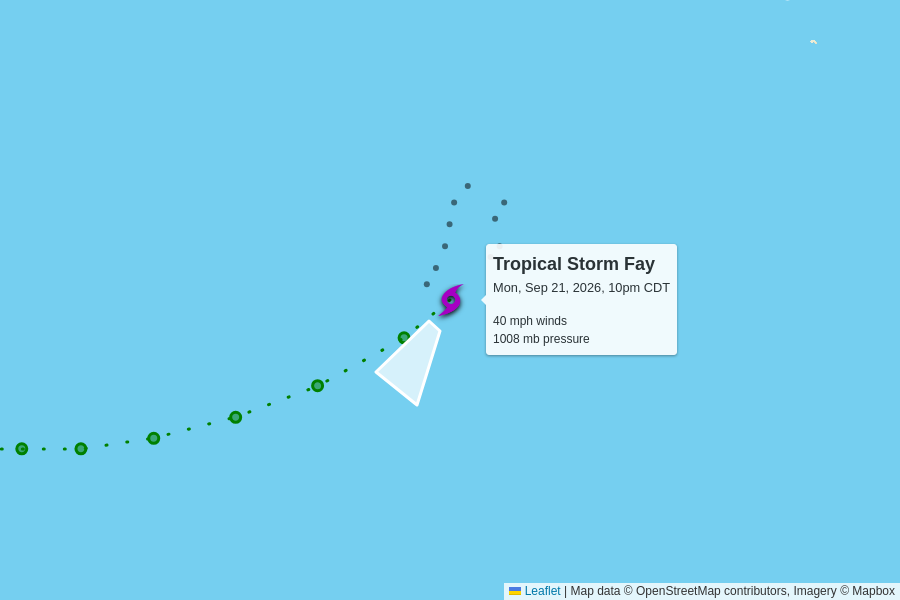
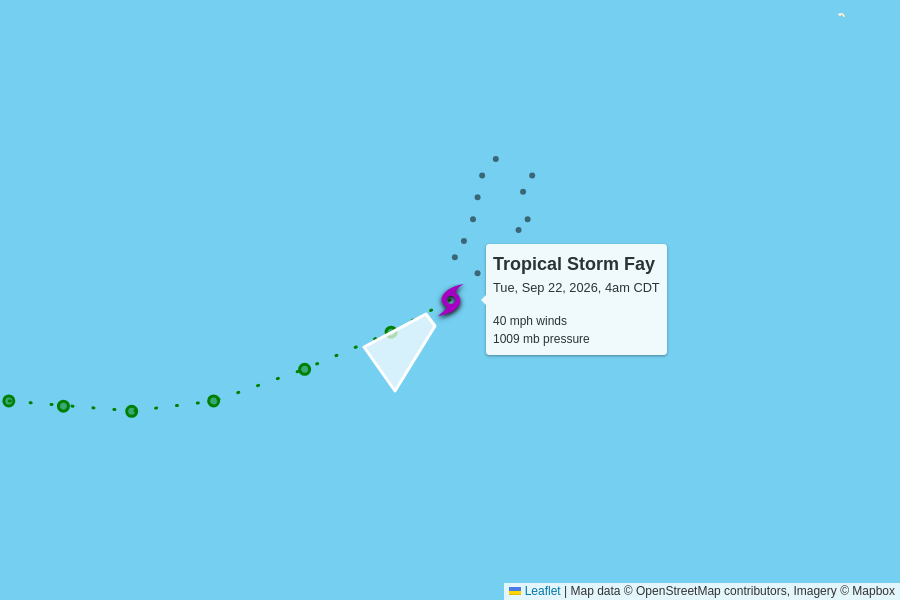
automatic update

diff --git a/docs/2026.html b/docs/2026.html
@@ -45,13 +45,13 @@
       <grid-container>
           <grid-row>
             <script type="text/json" id="storm_data_AL062026">
-              {"pressure":[{"timestamp":"2026-09-19T15:00:00.000Z","value":1009},{"timestamp":"2026-09-19T21:00:00.000Z","value":1007},{"timestamp":"2026-09-20T03:00:00.000Z","value":1007},{"timestamp":"2026-09-20T09:00:00.000Z","value":1004},{"timestamp":"2026-09-20T15:00:00.000Z","value":1004},{"timestamp":"2026-09-20T21:00:00.000Z","value":999},{"timestamp":"2026-09-21T03:00:00.000Z","value":995},{"timestamp":"2026-09-21T09:00:00.000Z","value":997},{"timestamp":"2026-09-21T15:00:00.000Z","value":1000},{"timestamp":"2026-09-21T21:00:00.000Z","value":1004},{"timestamp":"2026-09-22T03:00:00.000Z","value":1008}],"wind":[{"timestamp":"2026-09-19T15:00:00.000Z","value":35},{"timestamp":"2026-09-19T21:00:00.000Z","value":35},{"timestamp":"2026-09-20T03:00:00.000Z","value":35},{"timestamp":"2026-09-20T09:00:00.000Z","value":45},{"timestamp":"2026-09-20T15:00:00.000Z","value":60},{"timestamp":"2026-09-20T21:00:00.000Z","value":65},{"timestamp":"2026-09-21T03:00:00.000Z","value":70},{"timestamp":"2026-09-21T09:00:00.000Z","value":65},{"timestamp":"2026-09-21T15:00:00.000Z","value":50},{"timestamp":"2026-09-21T21:00:00.000Z","value":45},{"timestamp":"2026-09-22T03:00:00.000Z","value":40}]}
+              {"pressure":[{"timestamp":"2026-09-19T15:00:00.000Z","value":1009},{"timestamp":"2026-09-19T21:00:00.000Z","value":1007},{"timestamp":"2026-09-20T03:00:00.000Z","value":1007},{"timestamp":"2026-09-20T09:00:00.000Z","value":1004},{"timestamp":"2026-09-20T15:00:00.000Z","value":1004},{"timestamp":"2026-09-20T21:00:00.000Z","value":999},{"timestamp":"2026-09-21T03:00:00.000Z","value":995},{"timestamp":"2026-09-21T09:00:00.000Z","value":997},{"timestamp":"2026-09-21T15:00:00.000Z","value":1000},{"timestamp":"2026-09-21T21:00:00.000Z","value":1004},{"timestamp":"2026-09-22T03:00:00.000Z","value":1008},{"timestamp":"2026-09-22T09:00:00.000Z","value":1009}],"wind":[{"timestamp":"2026-09-19T15:00:00.000Z","value":35},{"timestamp":"2026-09-19T21:00:00.000Z","value":35},{"timestamp":"2026-09-20T03:00:00.000Z","value":35},{"timestamp":"2026-09-20T09:00:00.000Z","value":45},{"timestamp":"2026-09-20T15:00:00.000Z","value":60},{"timestamp":"2026-09-20T21:00:00.000Z","value":65},{"timestamp":"2026-09-21T03:00:00.000Z","value":70},{"timestamp":"2026-09-21T09:00:00.000Z","value":65},{"timestamp":"2026-09-21T15:00:00.000Z","value":50},{"timestamp":"2026-09-21T21:00:00.000Z","value":45},{"timestamp":"2026-09-22T03:00:00.000Z","value":40},{"timestamp":"2026-09-22T09:00:00.000Z","value":40}]}
             </script>              <grid-container class="storm">
                 <grid-row onClick="toggle('storm_AL062026')">
                   <h2>
                     Tropical Storm Fay
                     <div class="updated">
-                      last updated <time datetime="2026-09-22T03:00:00.000Z">2026-09-22T03:00:00.000Z</time>
+                      last updated <time datetime="2026-09-22T09:00:00.000Z">2026-09-22T09:00:00.000Z</time>
                     </div>
                   </h2>
                 </grid-row>
@@ -69,17 +69,17 @@
                         <td>
                           40 mph
                           <br>
-                          -5 mph since last update
+                          0 mph since last update
                         </td>
                         <td>
-                          1008 mb
+                          1009 mb
                           <br>
-                          +4 mb since last update
+                          +1 mb since last update
                         </td>
                         <td>
-                          8 mph to the southwest
+                          9 mph to the southwest
                           <br>
-                          <span style="display: inline-block; font-size: 1.5em; transform: rotate(215deg);">↑</span>
+                          <span style="display: inline-block; font-size: 1.5em; transform: rotate(230deg);">↑</span>
                         </td>
                         <td>
                           <a href="https://raw.githubusercontent.com/mgwalker/atlantic-hurricanes/main/data/csv/AL062026.csv">AL062026.csv</a>

diff --git a/docs/index.html b/docs/index.html
@@ -45,13 +45,13 @@
       <grid-container>
           <grid-row>
             <script type="text/json" id="storm_data_AL062026">
-              {"pressure":[{"timestamp":"2026-09-19T15:00:00.000Z","value":1009},{"timestamp":"2026-09-19T21:00:00.000Z","value":1007},{"timestamp":"2026-09-20T03:00:00.000Z","value":1007},{"timestamp":"2026-09-20T09:00:00.000Z","value":1004},{"timestamp":"2026-09-20T15:00:00.000Z","value":1004},{"timestamp":"2026-09-20T21:00:00.000Z","value":999},{"timestamp":"2026-09-21T03:00:00.000Z","value":995},{"timestamp":"2026-09-21T09:00:00.000Z","value":997},{"timestamp":"2026-09-21T15:00:00.000Z","value":1000},{"timestamp":"2026-09-21T21:00:00.000Z","value":1004},{"timestamp":"2026-09-22T03:00:00.000Z","value":1008}],"wind":[{"timestamp":"2026-09-19T15:00:00.000Z","value":35},{"timestamp":"2026-09-19T21:00:00.000Z","value":35},{"timestamp":"2026-09-20T03:00:00.000Z","value":35},{"timestamp":"2026-09-20T09:00:00.000Z","value":45},{"timestamp":"2026-09-20T15:00:00.000Z","value":60},{"timestamp":"2026-09-20T21:00:00.000Z","value":65},{"timestamp":"2026-09-21T03:00:00.000Z","value":70},{"timestamp":"2026-09-21T09:00:00.000Z","value":65},{"timestamp":"2026-09-21T15:00:00.000Z","value":50},{"timestamp":"2026-09-21T21:00:00.000Z","value":45},{"timestamp":"2026-09-22T03:00:00.000Z","value":40}]}
+              {"pressure":[{"timestamp":"2026-09-19T15:00:00.000Z","value":1009},{"timestamp":"2026-09-19T21:00:00.000Z","value":1007},{"timestamp":"2026-09-20T03:00:00.000Z","value":1007},{"timestamp":"2026-09-20T09:00:00.000Z","value":1004},{"timestamp":"2026-09-20T15:00:00.000Z","value":1004},{"timestamp":"2026-09-20T21:00:00.000Z","value":999},{"timestamp":"2026-09-21T03:00:00.000Z","value":995},{"timestamp":"2026-09-21T09:00:00.000Z","value":997},{"timestamp":"2026-09-21T15:00:00.000Z","value":1000},{"timestamp":"2026-09-21T21:00:00.000Z","value":1004},{"timestamp":"2026-09-22T03:00:00.000Z","value":1008},{"timestamp":"2026-09-22T09:00:00.000Z","value":1009}],"wind":[{"timestamp":"2026-09-19T15:00:00.000Z","value":35},{"timestamp":"2026-09-19T21:00:00.000Z","value":35},{"timestamp":"2026-09-20T03:00:00.000Z","value":35},{"timestamp":"2026-09-20T09:00:00.000Z","value":45},{"timestamp":"2026-09-20T15:00:00.000Z","value":60},{"timestamp":"2026-09-20T21:00:00.000Z","value":65},{"timestamp":"2026-09-21T03:00:00.000Z","value":70},{"timestamp":"2026-09-21T09:00:00.000Z","value":65},{"timestamp":"2026-09-21T15:00:00.000Z","value":50},{"timestamp":"2026-09-21T21:00:00.000Z","value":45},{"timestamp":"2026-09-22T03:00:00.000Z","value":40},{"timestamp":"2026-09-22T09:00:00.000Z","value":40}]}
             </script>              <grid-container class="storm">
                 <grid-row onClick="toggle('storm_AL062026')">
                   <h2>
                     Tropical Storm Fay
                     <div class="updated">
-                      last updated <time datetime="2026-09-22T03:00:00.000Z">2026-09-22T03:00:00.000Z</time>
+                      last updated <time datetime="2026-09-22T09:00:00.000Z">2026-09-22T09:00:00.000Z</time>
                     </div>
                   </h2>
                 </grid-row>
@@ -69,17 +69,17 @@
                         <td>
                           40 mph
                           <br>
-                          -5 mph since last update
+                          0 mph since last update
                         </td>
                         <td>
-                          1008 mb
+                          1009 mb
                           <br>
-                          +4 mb since last update
+                          +1 mb since last update
                         </td>
                         <td>
-                          8 mph to the southwest
+                          9 mph to the southwest
                           <br>
-                          <span style="display: inline-block; font-size: 1.5em; transform: rotate(215deg);">↑</span>
+                          <span style="display: inline-block; font-size: 1.5em; transform: rotate(230deg);">↑</span>
                         </td>
                         <td>
                           <a href="https://raw.githubusercontent.com/mgwalker/atlantic-hurricanes/main/data/csv/AL062026.csv">AL062026.csv</a>
